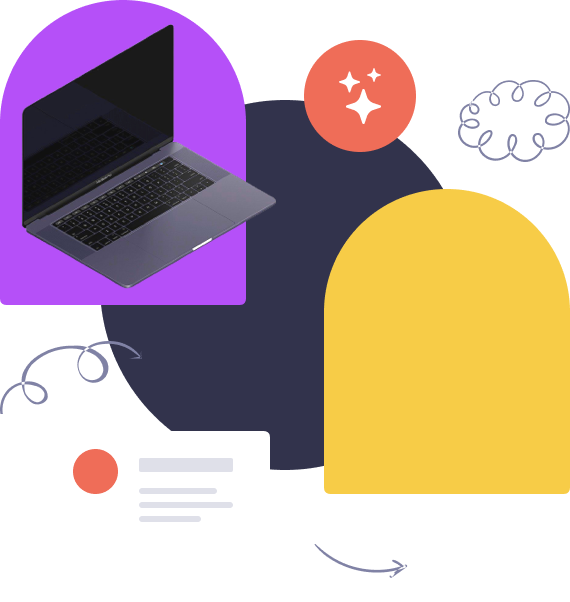
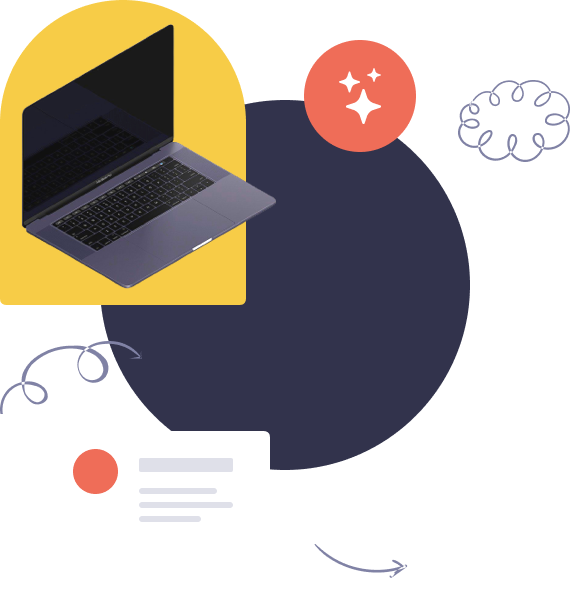
improved the home section

Changed region(s): [[0.5667, 0.299, 1.0, 0.8372], [0.0, 0.0, 0.4474, 0.5083]]

diff --git a/src/components/Home/styles.ts b/src/components/Home/styles.ts
@@ -1,6 +1,7 @@
 import styled from "styled-components";
 import { Container } from "@/styles/util-styles";
 import star from "@/images/star.svg";
+import elene from "@/images/elene.jpg";
 
 export const StyledHero = styled.section`
   background-color: ${({ theme }) => theme.colors.background.primary};
@@ -36,6 +37,64 @@ export const HeroTextSection = styled.div`
   }
 `;
 
+export const ImageSection = styled.div`
+  position: relative;
+
+  .blob {
+    -webkit-animation: blobMorph 6s ease-in-out infinite,
+      blobMove 10s alternate infinite;
+    animation: blobMorph 6s ease-in-out infinite,
+      blobMove 10s alternate infinite;
+    background-image: url(${elene});
+    background-position: 50%;
+    background-repeat: no-repeat;
+    background-size: cover;
+    border: 3px solid white;
+    border-radius: 60% 40% 30% 70% / 60% 30% 70% 40%;
+    position: relative;
+    transition: all 0.3s ease-in-out;
+    width: 50%;
+    aspect-ratio: 1;
+    position: absolute;
+    bottom: 80px;
+    right: 20px;
+    z-index: 2;
+
+    @media (min-width: ${({ theme }) => theme.breakpoints.md}) {
+      bottom: 110px;
+      right: 30px;
+    }
+  }
+
+  @keyframes blobMorph {
+    0% {
+      border-radius: 60% 40% 30% 70% / 60% 30% 70% 40%;
+    }
+    50% {
+      border-radius: 30% 60% 70% 40% / 50% 60% 30% 60%;
+    }
+    100% {
+      border-radius: 60% 40% 30% 70% / 60% 30% 70% 40%;
+    }
+  }
+
+  @keyframes blobMove {
+    0%,
+    100% {
+      transform: translate(0, 0);
+    }
+    25% {
+      transform: translate(15px, -15px);
+    }
+    50% {
+      transform: translate(30px, 0px);
+    }
+    75% {
+      transform: translate(15px, 15px);
+    }
+  }
+`;
+
 export const HeroSectionHeader = styled.h1`
   color: ${({ theme }) => theme.colors.text.secondary.lightest};
   font-size: ${({ theme }) => theme.typography.fontSize.large2};
@@ -47,13 +106,13 @@ export const HeroSectionHeader = styled.h1`
 
     div {
       position: relative;
-      max-width: 480px;
+      max-width: 450px;
 
       &::after {
         content: "";
         position: absolute;
         top: -40px;
-        right: 35px;
+        right: 0;
         width: 150px;
         aspect-ratio: 1;
         background-image: url(${star});
@@ -75,12 +134,13 @@ export const HeroSectionHeader = styled.h1`
 
 export const Description = styled.p`
   color: ${({ theme }) => theme.colors.text.tertiary.light};
-  line-height: 2rem;
+  line-height: 1.78em;
   max-width: 430px;
   margin: 1rem auto;
 
   @media (min-width: ${({ theme }) => theme.breakpoints.sm}) {
-    max-width: 470px;
+    max-width: 500px;
     margin-inline: unset;
+    font-size: ${({ theme }) => theme.typography.fontSize.medium};
   }
 `;

diff --git a/src/components/Home/index.tsx b/src/components/Home/index.tsx
@@ -5,30 +5,40 @@ import {
   HeroTextSection,
   HeroSectionHeader,
   Description,
+  ImageSection,
 } from "./styles";
 import SocialLinks from "../SocialLinks";
+import { useTheme } from "styled-components";
+import useMediaQuery from "@/hooks/useMediaQuery";
 
 const Home = () => {
+  const theme = useTheme();
+  const isSmallScreen = useMediaQuery(`(max-width: ${theme.breakpoints.sm})`);
 
   return (
     <StyledHero id="home">
       <HeroContainer>
         <HeroTextSection>
           <HeroSectionHeader>
-            <div>We’re Help</div> To Build Your Dream Project
+            Full-stack
+            <div>Developer.</div>
           </HeroSectionHeader>
 
           <Description>
-            Agency provides a full service range including technical skills,
-            design, business understanding.
+            Hi, I'm Elene. I love creating scalable, adaptable front-end and
+            full-stack projects. My passion is helping people turn their ideas
+            into reality.
           </Description>
 
-          <SocialLinks />
+          <SocialLinks
+            style={{ justifyContent: isSmallScreen ? "center" : "" }}
+          />
         </HeroTextSection>
 
-        <div>
+        <ImageSection>
           <img src={heroBackground} alt="illustration of hobbies" />
-        </div>
+          <div className="blob" />
+        </ImageSection>
       </HeroContainer>
     </StyledHero>
   );

diff --git a/src/components/Navbar/styles.ts b/src/components/Navbar/styles.ts
@@ -1,6 +1,7 @@
 import styled from "styled-components";
 import { Container } from "@/styles/util-styles";
 import { motion } from "framer-motion";
+import AnchorLink from "react-anchor-link-smooth-scroll";
 
 export const StyledHeader = styled.header<{ isTopOfPage: boolean }>`
   position: fixed;
@@ -13,6 +14,15 @@ export const StyledHeader = styled.header<{ isTopOfPage: boolean }>`
   box-shadow: ${({ isTopOfPage }) =>
     isTopOfPage ? "" : "rgba(0, 0, 0, 0.45) 0px 5px 15px"};
   transition: background-color 0.3s ease-in-out;
+`;
+
+export const LinkStyled = styled(AnchorLink)`
+  color: ${({ theme }) => theme.colors.text.secondary.lightest};
+  transition: color 0.2s ease-in-out;
+
+  &:hover {
+    color: ${({ theme }) => theme.colors.accent.medium};
+  }
 `;
 
 export const NavbarContainer = styled(Container)`
@@ -38,15 +48,6 @@ export const DesktopNavList = styled.ul`
   display: flex;
   align-items: center;
   gap: calc(4vw + 1rem);
-
-  li > a {
-    font-size: ${({ theme }) => theme.typography.fontSize.regular};
-    color: ${({ theme }) => theme.colors.text.secondary.lightest};
-
-    &.active {
-      color: ${({ theme }) => theme.colors.accent.medium};
-    }
-  }
 `;
 
 /* SMALL SCREENS */

diff --git a/src/components/Navbar/index.tsx b/src/components/Navbar/index.tsx
@@ -1,5 +1,4 @@
 import logo from "@/images/logo.svg";
-import Link from "./Link";
 import {
   StyledHeader,
   NavbarContainer,
@@ -7,6 +6,7 @@ import {
   StyledLogoContainer,
   HamburgerMenu,
   MobileNavbar,
+  LinkStyled,
 } from "./styles";
 import { useEffect, useState } from "react";
 import useMediaQuery from "@/hooks/useMediaQuery";
@@ -47,7 +47,9 @@ const Navbar = () => {
             <DesktopNavList>
               {navLinks.map((navLink) => (
                 <li key={navLink}>
-                  <Link page={`${navLink}`} />
+                  <LinkStyled href={`#${navLink.toLowerCase()}`}>
+                    {navLink}
+                  </LinkStyled>
                 </li>
               ))}
             </DesktopNavList>
@@ -85,7 +87,9 @@ const Navbar = () => {
                       animate={{ opacity: 1, y: 0 }}
                       transition={{ delay: index * 0.1, duration: 0.5 }}
                     >
-                      <Link page={`${navLink}`} />
+                      <LinkStyled href={`#${navLink.toLowerCase()}`}>
+                        {navLink}
+                      </LinkStyled>
                     </motion.li>
                   ))}
                 </ul>

diff --git a/src/components/SocialLinks.tsx b/src/components/SocialLinks.tsx
@@ -1,5 +1,16 @@
 import { FaGithub, FaLinkedin } from "react-icons/fa";
 import styled from "styled-components";
+import { motion } from "framer-motion";
+
+interface LinkProps {
+  href: string;
+  children: React.ReactNode;
+}
+
+interface SocialLinksProps {
+  className?: string;
+  style?: React.CSSProperties;
+}
 
 export const LinksStyled = styled.div`
   display: flex;
@@ -15,15 +26,23 @@ export const LinksStyled = styled.div`
   }
 `;
 
-const SocialLinks = () => {
+const Link = ({ href, children }: LinkProps) => {
   return (
-    <LinksStyled>
-      <a href="">
+    <motion.a href={href} whileHover={{ scale: 1.2 }} whileTap={{ scale: 0.9 }}>
+      {children}
+    </motion.a>
+  );
+};
+
+const SocialLinks = ({ className, style }: SocialLinksProps) => {
+  return (
+    <LinksStyled className={className} style={style}>
+      <Link href="">
         <FaGithub />
-      </a>
-      <a href="">
+      </Link>
+      <Link href="">
         <FaLinkedin />
-      </a>
+      </Link>
     </LinksStyled>
   );
 };

diff --git a/src/App.tsx b/src/App.tsx
@@ -7,22 +7,19 @@ import About from "@/components/About";
 import Contact from "@/components/Contact";
 import Projects from "@/components/Projects";
 import Footer from "@/components/Footer";
-import { AnchorLinkProvider } from "./context/anchorLink";
 
 const App = () => {
   return (
     <ThemeProvider theme={theme}>
-      <AnchorLinkProvider>
-        <CSSReset />
-        <Navbar />
-        <main>
-          <Home />
-          <About />
-          <Projects />
-          <Contact />
-          <Footer />
-        </main>
-      </AnchorLinkProvider>
+      <CSSReset />
+      <Navbar />
+      <main>
+        <Home />
+        <About />
+        <Projects />
+        <Contact />
+        <Footer />
+      </main>
     </ThemeProvider>
   );
 };

diff --git a/src/constants/skillList.ts b/src/constants/skillList.ts
@@ -6,6 +6,7 @@ export const skillList = [
   { title: "TypeScript", imgQuery: "ts" },
   { title: "React", imgQuery: "react" },
   { title: "Tailwind", imgQuery: "tailwind" },
+  { title: "Bootstrap", imgQuery: "bootstrap" },
   { title: "Material UI", imgQuery: "mui" },
   { title: "Styled Components", imgQuery: "styledcomponents" },
   { title: "Figma", imgQuery: "figma" },

diff --git a/src/components/Footer/styles.ts b/src/components/Footer/styles.ts
@@ -18,7 +18,7 @@ export const TopSection = styled.div`
   p {
     color: ${({ theme }) => theme.colors.accent.medium};
     font-weight: ${({ theme }) => theme.typography.fontWeight.medium};
-    font-size: ${({ theme }) => theme.typography.fontSize.medium};
+    font-size: ${({ theme }) => theme.typography.fontSize.medium2};
     margin-bottom: 2rem;
   }
 

diff --git a/src/styles/theme.ts b/src/styles/theme.ts
@@ -76,7 +76,8 @@ const theme: DefaultTheme = {
     fontSize: {
       small: "0.875rem", //14px
       regular: "1rem", //16px
-      medium: "1.25rem", //20px
+      medium: "1.125rem", //18px
+      medium2: "1.25rem", //20px
       large1: "1.5rem", //24px
       large2: "2.5rem", //40px
       large3: "3.5rem", //56px

diff --git a/src/styled.d.ts b/src/styled.d.ts
@@ -53,6 +53,7 @@ declare module "styled-components" {
         small: string;
         regular: string;
         medium: string;
+        medium2: string;
         large1: string;
         large2: string;
         large3: string;
